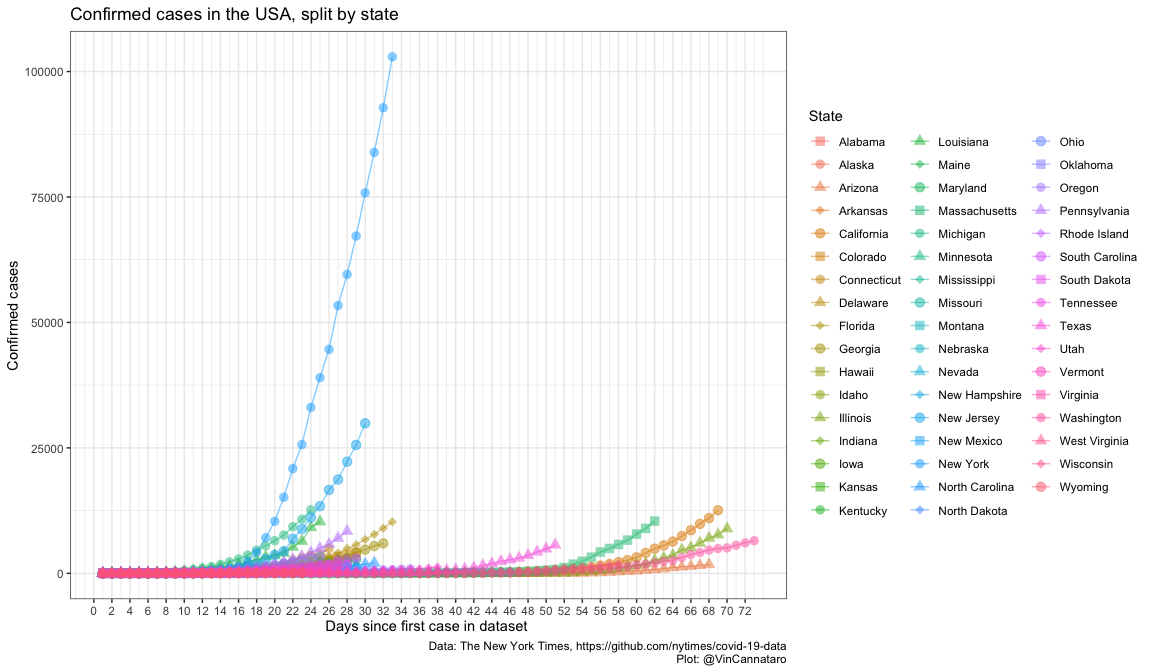
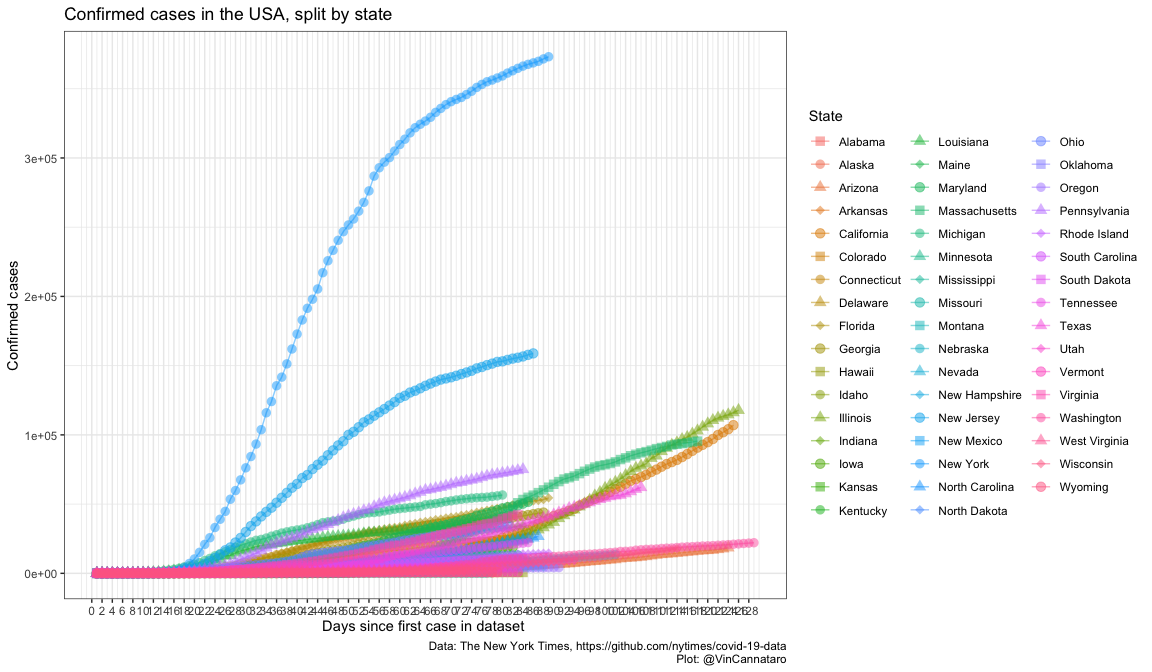
data update

diff --git a/COVID19_initial_data_analyses_CannataroV.md b/COVID19_initial_data_analyses_CannataroV.md
@@ -1,7 +1,7 @@
 COVID19 data exploration
 ================
 Vincent L. Cannataro
-last update 2020-April-05
+last update 2020-May-31
 
 Data obtained from curated Johns Hopkins University Center for Systems
 Science and Engineering database here:
@@ -82,21 +82,77 @@ The total number of confirmed cases in the USA by date:
 | 2020-03-14 |       2898 |
 | 2020-03-15 |       3600 |
 | 2020-03-16 |       4507 |
-| 2020-03-17 |       5905 |
-| 2020-03-18 |       8345 |
-| 2020-03-19 |      12413 |
-| 2020-03-20 |      17996 |
-| 2020-03-21 |      24532 |
-| 2020-03-22 |      33061 |
+| 2020-03-17 |       5906 |
+| 2020-03-18 |       8350 |
+| 2020-03-19 |      12393 |
+| 2020-03-20 |      18010 |
+| 2020-03-21 |      24526 |
+| 2020-03-22 |      33070 |
 | 2020-03-23 |      43499 |
-| 2020-03-24 |      54198 |
-| 2020-03-25 |      68775 |
-| 2020-03-26 |      85615 |
-| 2020-03-27 |     102913 |
-| 2020-03-28 |     123831 |
-| 2020-03-29 |     142178 |
-| 2020-03-30 |     163672 |
-| 2020-03-31 |     187962 |
-| 2020-04-01 |     214760 |
-| 2020-04-02 |     243719 |
-| 2020-04-03 |     276091 |
+| 2020-03-24 |      54171 |
+| 2020-03-25 |      68780 |
+| 2020-03-26 |      85639 |
+| 2020-03-27 |     103005 |
+| 2020-03-28 |     123944 |
+| 2020-03-29 |     142386 |
+| 2020-03-30 |     163876 |
+| 2020-03-31 |     188325 |
+| 2020-04-01 |     215463 |
+| 2020-04-02 |     244592 |
+| 2020-04-03 |     276962 |
+| 2020-04-04 |     311802 |
+| 2020-04-05 |     337595 |
+| 2020-04-06 |     371111 |
+| 2020-04-07 |     399350 |
+| 2020-04-08 |     431133 |
+| 2020-04-09 |     465859 |
+| 2020-04-10 |     499328 |
+| 2020-04-11 |     531059 |
+| 2020-04-12 |     558185 |
+| 2020-04-13 |     583986 |
+| 2020-04-14 |     610620 |
+| 2020-04-15 |     640460 |
+| 2020-04-16 |     672325 |
+| 2020-04-17 |     703750 |
+| 2020-04-18 |     732126 |
+| 2020-04-19 |     757480 |
+| 2020-04-20 |     784755 |
+| 2020-04-21 |     810252 |
+| 2020-04-22 |     838112 |
+| 2020-04-23 |     872003 |
+| 2020-04-24 |     909473 |
+| 2020-04-25 |     943755 |
+| 2020-04-26 |     970353 |
+| 2020-04-27 |     993710 |
+| 2020-04-28 |    1018551 |
+| 2020-04-29 |    1045061 |
+| 2020-04-30 |    1075486 |
+| 2020-05-01 |    1109434 |
+| 2020-05-02 |    1138961 |
+| 2020-05-03 |    1164970 |
+| 2020-05-04 |    1186886 |
+| 2020-05-05 |    1210597 |
+| 2020-05-06 |    1235102 |
+| 2020-05-07 |    1263528 |
+| 2020-05-08 |    1291259 |
+| 2020-05-09 |    1316092 |
+| 2020-05-10 |    1336251 |
+| 2020-05-11 |    1354030 |
+| 2020-05-12 |    1376323 |
+| 2020-05-13 |    1397507 |
+| 2020-05-14 |    1424521 |
+| 2020-05-15 |    1450635 |
+| 2020-05-16 |    1474285 |
+| 2020-05-17 |    1493270 |
+| 2020-05-18 |    1515054 |
+| 2020-05-19 |    1536153 |
+| 2020-05-20 |    1558933 |
+| 2020-05-21 |    1584970 |
+| 2020-05-22 |    1608587 |
+| 2020-05-23 |    1631008 |
+| 2020-05-24 |    1650954 |
+| 2020-05-25 |    1670101 |
+| 2020-05-26 |    1688990 |
+| 2020-05-27 |    1707709 |
+| 2020-05-28 |    1730159 |
+| 2020-05-29 |    1754724 |
